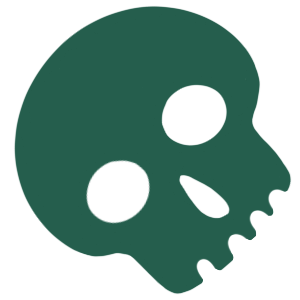
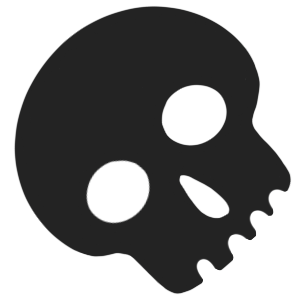
Fixed styling for new ui refresh.

diff --git a/blocks/header/header.css b/blocks/header/header.css
@@ -23,7 +23,7 @@ header nav[aria-expanded="false"] {
 }
 
 /* NAV-BRAND */
-header .nav-brand{
+header .nav-brand {
   cursor: pointer;
 }
 
@@ -46,7 +46,6 @@ header .nav-brand h4 {
   margin: 0;
   padding-left: 12px;
   font-weight: 600;
-  text-transform: uppercase;
   letter-spacing: 2px;
 }
 
@@ -57,7 +56,6 @@ header .nav-brand h4 {
     margin: 0;
     padding-left: 12px;
     font-weight: 600;
-    text-transform: uppercase;
     letter-spacing: 2px;
   }
 }
@@ -66,12 +64,11 @@ header .nav-brand h4 {
 header .nav-breadcrumb {
   position: fixed;
   font-weight: 600;
-  text-transform: uppercase;
   letter-spacing: 2px;
   font-size: var(--body-font-size-xxs);
   display: flex;
   align-items: center;
-  margin-left: 200px;
+  margin-left: 155px;
 }
 
 /* NAV-BREADCRUMB DESKTOP */
@@ -80,7 +77,7 @@ header .nav-breadcrumb {
     position: fixed;
     font-size: var(--body-font-size-s);
     padding-top: 0;
-    margin-left: 270px;
+    margin-left: 212px;
   }
 }
 
@@ -136,7 +133,6 @@ header nav[aria-expanded="false"] .nav-links .default-content-wrapper ul {
 
 header .nav-links li {
   background-color: var(--background-color);
-  border-bottom: 4px solid var(--primary-dark);
   flex-grow: 1;
   position: relative;
 }
@@ -149,6 +145,7 @@ header .nav-links li a {
 }
 
 header .nav-links li img {
+  /* border: 4px solid var(--primary-dark); */
   position: absolute;
   bottom: 0; 
   top: 5%;
@@ -156,7 +153,6 @@ header .nav-links li img {
   object-fit: cover;
   width: 90%;
   height: 100%;
-  border: 4px solid var(--primary-dark);
 }
 
 header .nav-links li strong {
@@ -166,7 +162,6 @@ header .nav-links li strong {
   writing-mode: vertical-rl;
   transform: rotate(180deg);
   font-weight: 500;
-  text-transform: uppercase;
   letter-spacing: 6px;
   font-size: var(--body-font-size-m);
 }
@@ -176,9 +171,6 @@ header .nav-links li.hide-menu {
   transform: translateY(-100dvh);
 }
 
-header .nav-links li:last-child {
-  border-bottom: none;
-}
 
 /* NAV-LINKS DESKTOP */
 @media (width >= 900px) {

diff --git a/styles/styles.css b/styles/styles.css
@@ -12,20 +12,24 @@
 
 :root {
   /* colors */
-  --link-color: #ff7f6b;
-  --link-hover-color: #ff7f6b;
-  --primary-color: #ff7f6b;
-  --background-color: #f7f7f9;
+  --link-color: #9f1e5f;
+  --link-hover-color: #9f1e5f;
+  --primary-color: #9f1e5f;
+  --primary-gray: #E4E7EA;
+  --light-blue: #a4c7e6;
+  --dark-blue: #6ea6c8;
+  --dark-green: #28705D;
+  --background-color: #fefefe;
   --normal-color: #0B21E3;
   --ls-color: #D1134A;
   --fable-color: #FBC13F;
   --cofi-color: #5F25E9;
-  --primary-dark: #255E4D;
+  --primary-dark: #232323;
   --primary-medium: #84a49b;
   --primary-light: #e6fff8;
   --light-color: #eee;
   --dark-color: #ccc;
-  --text-color: #255E4D;
+  --text-color: #232323;
 
   /* fonts */
   --body-font-family: poppins, sans-serif;
@@ -48,6 +52,16 @@
 
   /* nav height */
   --nav-height: 58px;
+
+    /* spacing */
+  --spacing-xxxxl: var(--spacing-800);
+  --spacing-xxxl: var(--spacing-700);
+  --spacing-xxl: var(--spacing-600);
+  --spacing-xl:  var(--spacing-500);
+  --spacing-l:   var(--spacing-400);
+  --spacing-m:   var(--spacing-300);
+  --spacing-s:   var(--spacing-200);
+  --spacing-xs:  var(--spacing-100);
 }
 
 @media (width >= 900px) {
@@ -87,7 +101,12 @@ h4, h5, h6 {
   margin-top: .5em;
   margin-bottom: .2em;
   scroll-margin: calc(var(--nav-height) + 1em);
+  text-transform: lowercase;
 }
+
+/* h2 {
+  color: var(--primary-color)
+} */
 
 h1 { font-size: var(--heading-font-size-xxl) }
 h2 { font-size: var(--heading-font-size-xl) }
@@ -99,6 +118,7 @@ h6 { font-size: var(--heading-font-size-xs) }
 p, dl, ol, ul, pre, blockquote {
   margin-top: 1em;
   margin-bottom: 1em;
+  text-transform: lowercase;
 }
 
 code, pre {
@@ -183,6 +203,10 @@ main img {
 .icon img {
   height: 100%;
   width: 100%;
+}
+
+main {
+  margin-top: 18px;
 }
 
 /* sections */

diff --git a/blocks/columns/columns.css b/blocks/columns/columns.css
@@ -1,22 +1,36 @@
 .columns > div {
   display: flex;
   flex-direction: column;
-}
-
-.columns img {
-  width: 100%;
+  margin: 0 !important;
 }
 
 .columns > div > div {
   order: 1;
+  margin-bottom: 24px;
 }
 
-.columns > div > .columns-img-col {
-  order: 0;
+.columns > div > div > p {
+  padding: 0;
+  margin: 0;
 }
 
-.columns > div > .columns-img-col img {
-  display: block;
+.columns > div > div > h4 {
+  padding: 0;
+  margin: 0;
+  font-size: 24px
+}
+
+.columns > div > div a.button {
+  width: 100%;
+  border-radius: 0 !important;
+  background-color: var(--primary-gray);
+  margin: 0;
+}
+
+.columns > div > div span img {
+  max-height: 250px;
+  min-height: 250px;
+  padding: 20px 0;
 }
 
 @media (width >= 900px) {
@@ -30,3 +44,6 @@
     order: unset;
   }
 }
+
+
+

diff --git a/blocks/tile-content/tile-content.css b/blocks/tile-content/tile-content.css
@@ -2,10 +2,24 @@
     margin-bottom: 60px;
 }
 
+.tile > div > div:nth-of-type(2) {
+    margin-left: 24px;
+}
+
+.tile > div > div > span {
+    display: flex;
+    justify-content: center;
+    align-items: center;
+}
+
+.tile > div > div > span > img {
+    max-height: 150px;
+}
+
 /* DESKTOP */
 @media (width >= 900px) {
-    .tile-content > div > div {
-        width: 75%;
+    .tile-container > div > div {
+        margin: 0 20%;
     }
 }
 

diff --git a/scripts/aem.js b/scripts/aem.js
@@ -361,8 +361,7 @@ function decorateTemplateAndTheme() {
  */
 function decorateButtons(element) {
   element.querySelectorAll('a').forEach((a) => {
-    a.title = a.title || a.textContent;
-    if (a.href !== a.textContent) {
+    if (a.href) {
       const up = a.parentElement;
       const twoup = a.parentElement.parentElement;
       if (!a.querySelector('img')) {
